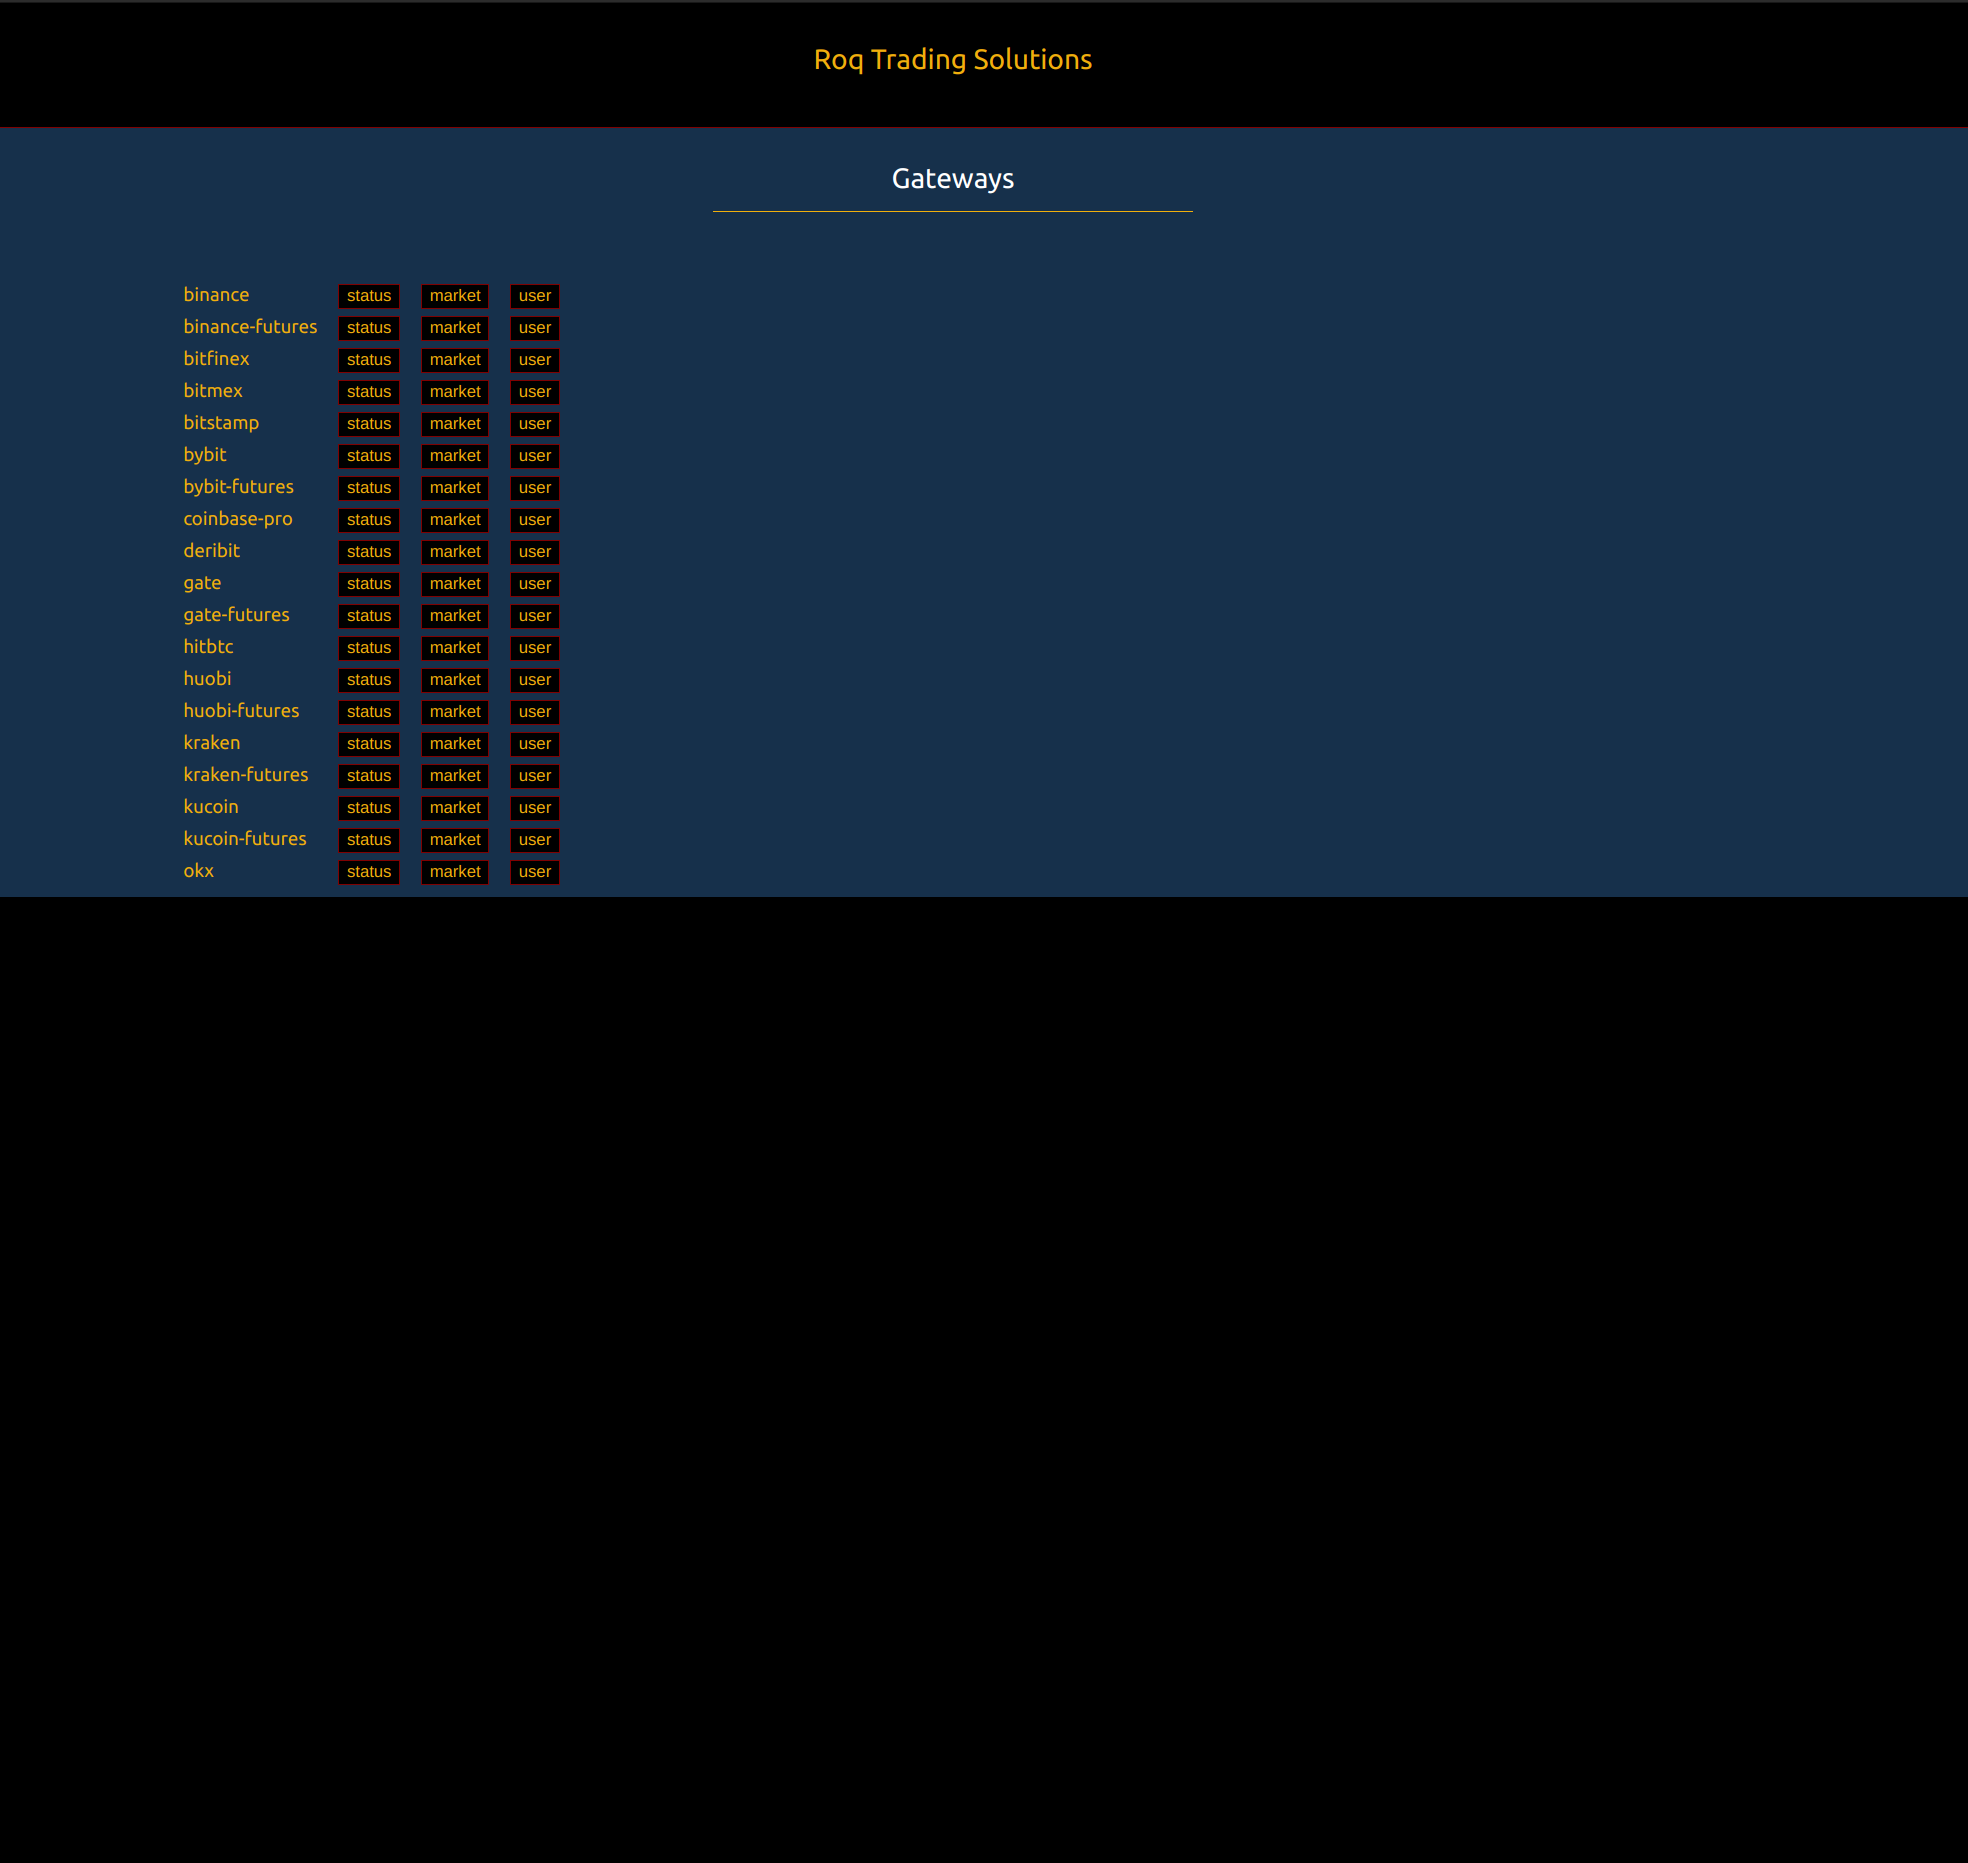
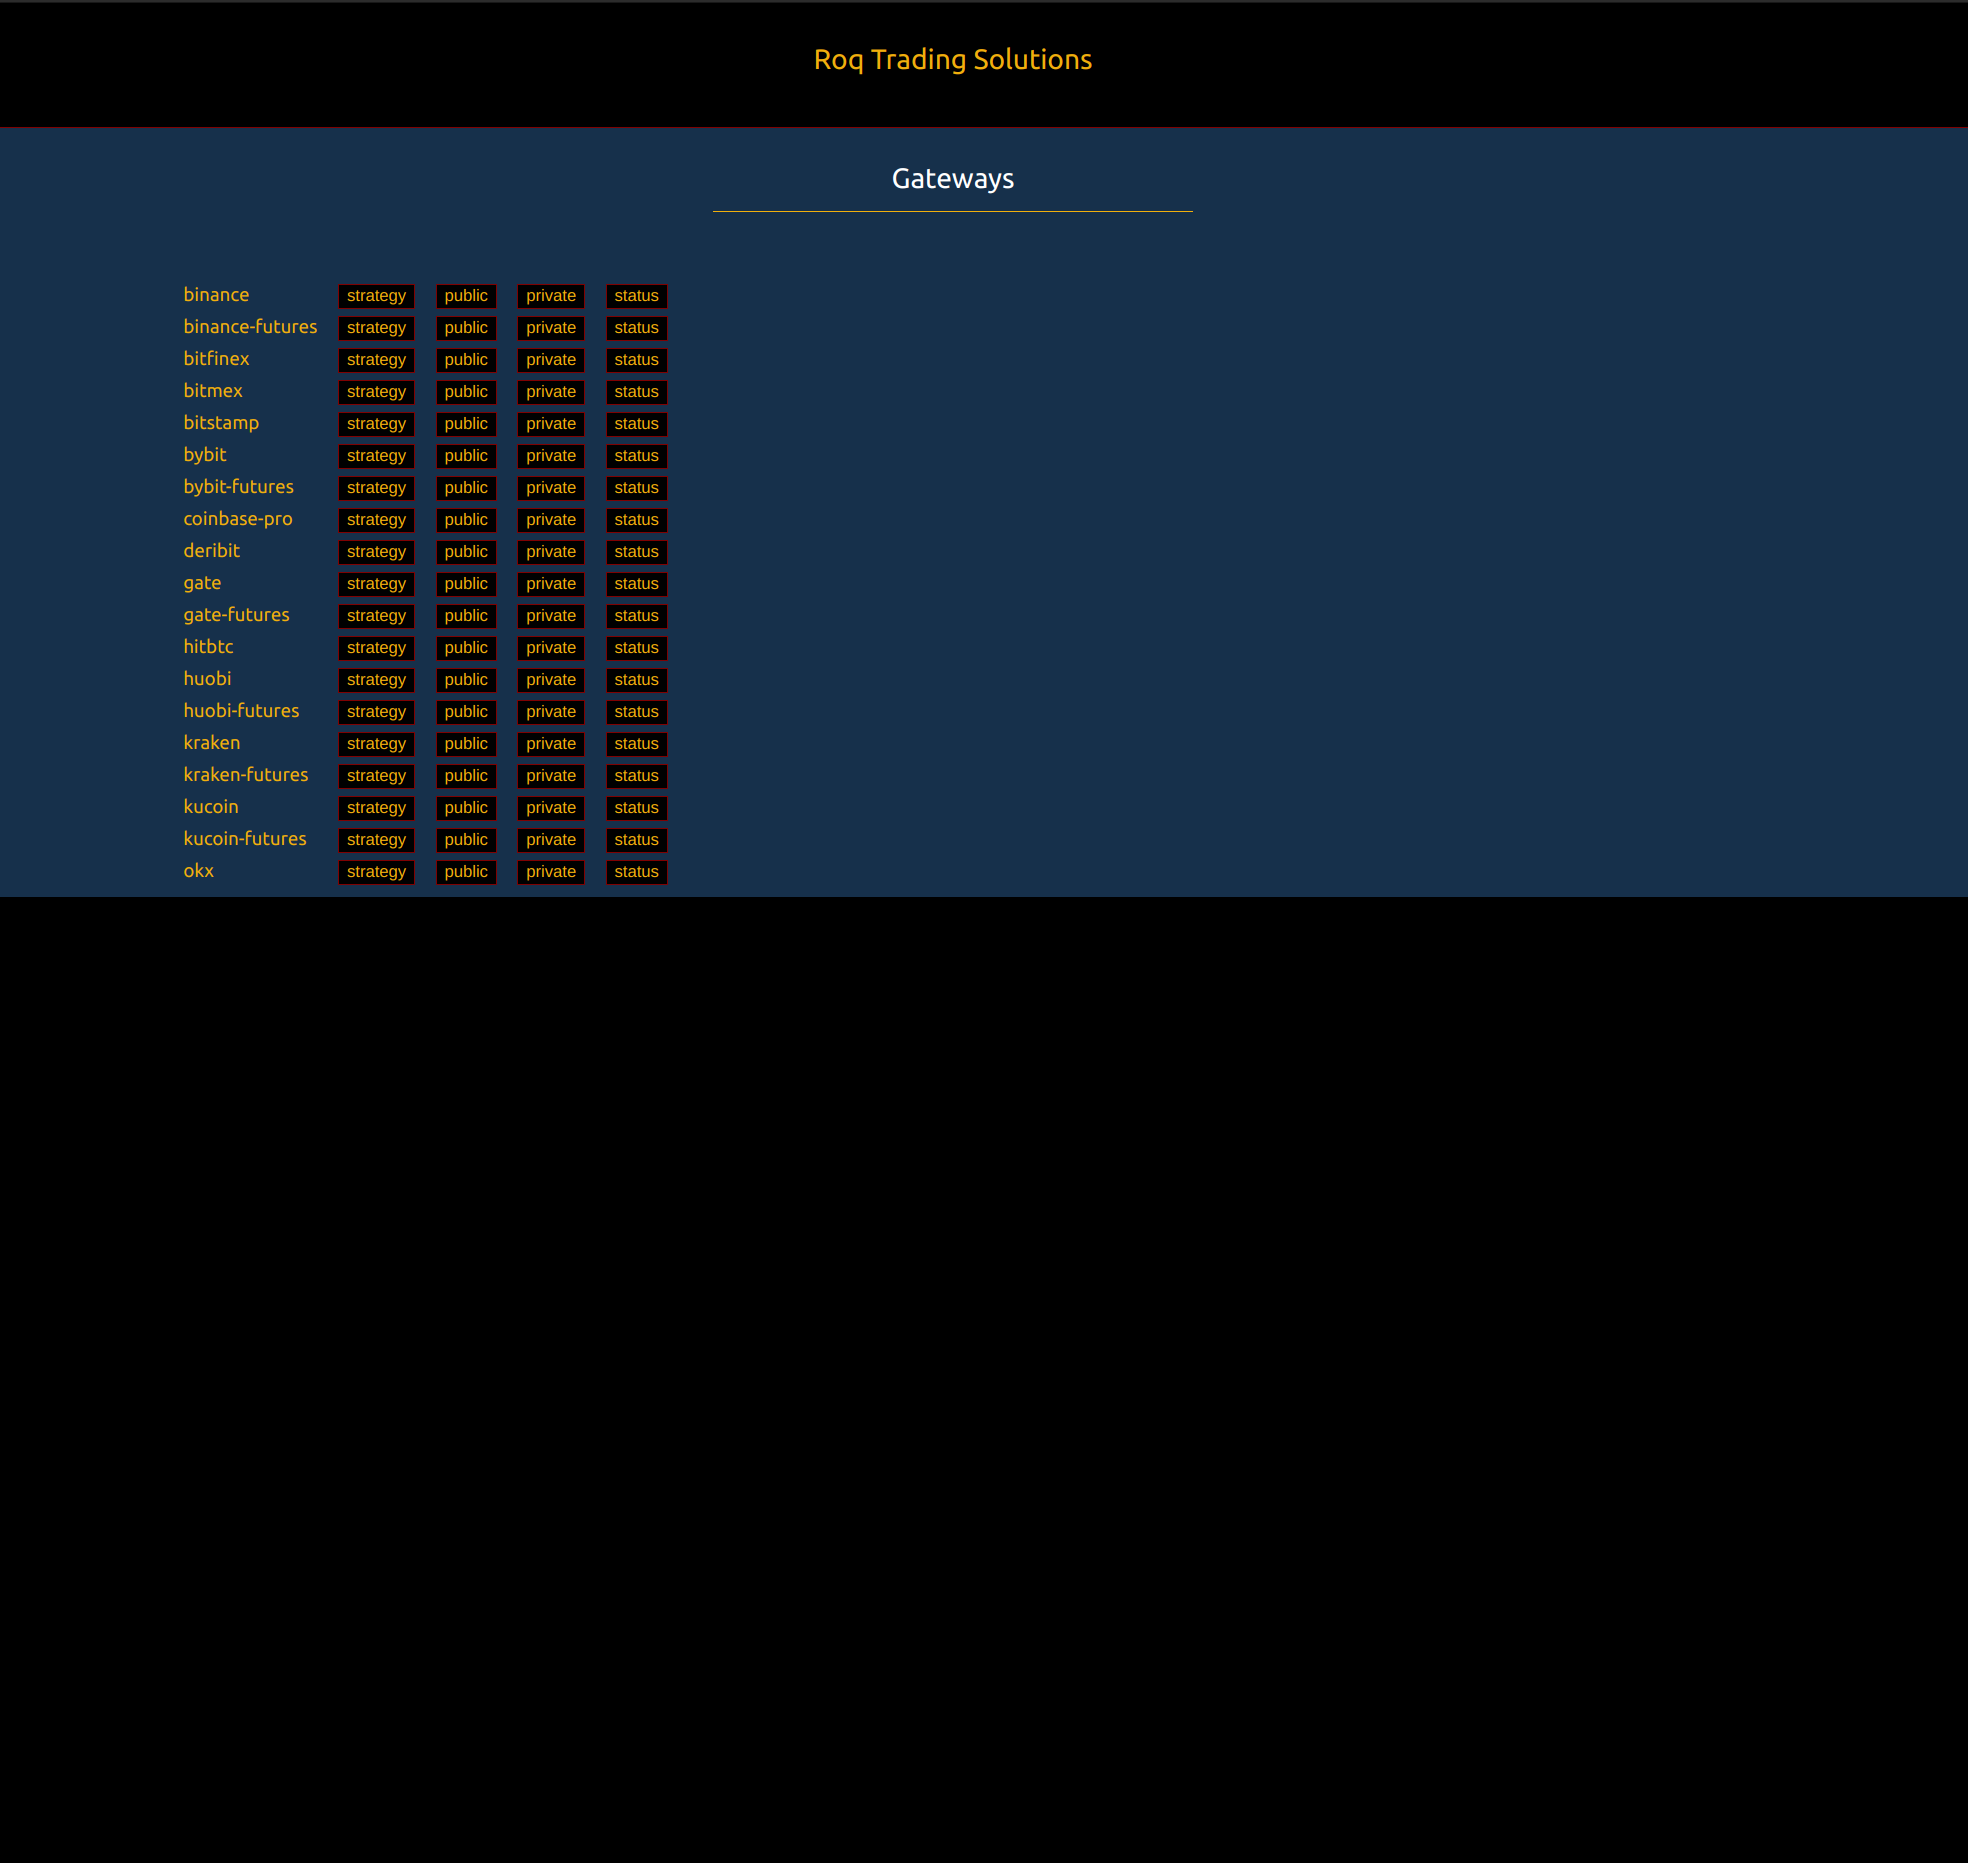
update

Changed region(s): [[0.186, 0.1557, 0.341, 0.4981]]

diff --git a/README.md b/README.md
@@ -3,8 +3,10 @@
 EXPERIMENT
 
 ![Home](/doc/images/home.png)
+![Strategy1](/doc/images/strategy_1.png)
+![Strategy2](/doc/images/strategy_2.png)
+![Public1](/doc/images/public_1.png)
+![Public2](/doc/images/public_2.png)
+![Private1](/doc/images/private_1.png)
+![Private2](/doc/images/private_2.png)
 ![Status](/doc/images/status.png)
-![Market1](/doc/images/market_1.png)
-![Market2](/doc/images/market_2.png)
-![User1](/doc/images/user_1.png)
-![User2](/doc/images/user_2.png)
